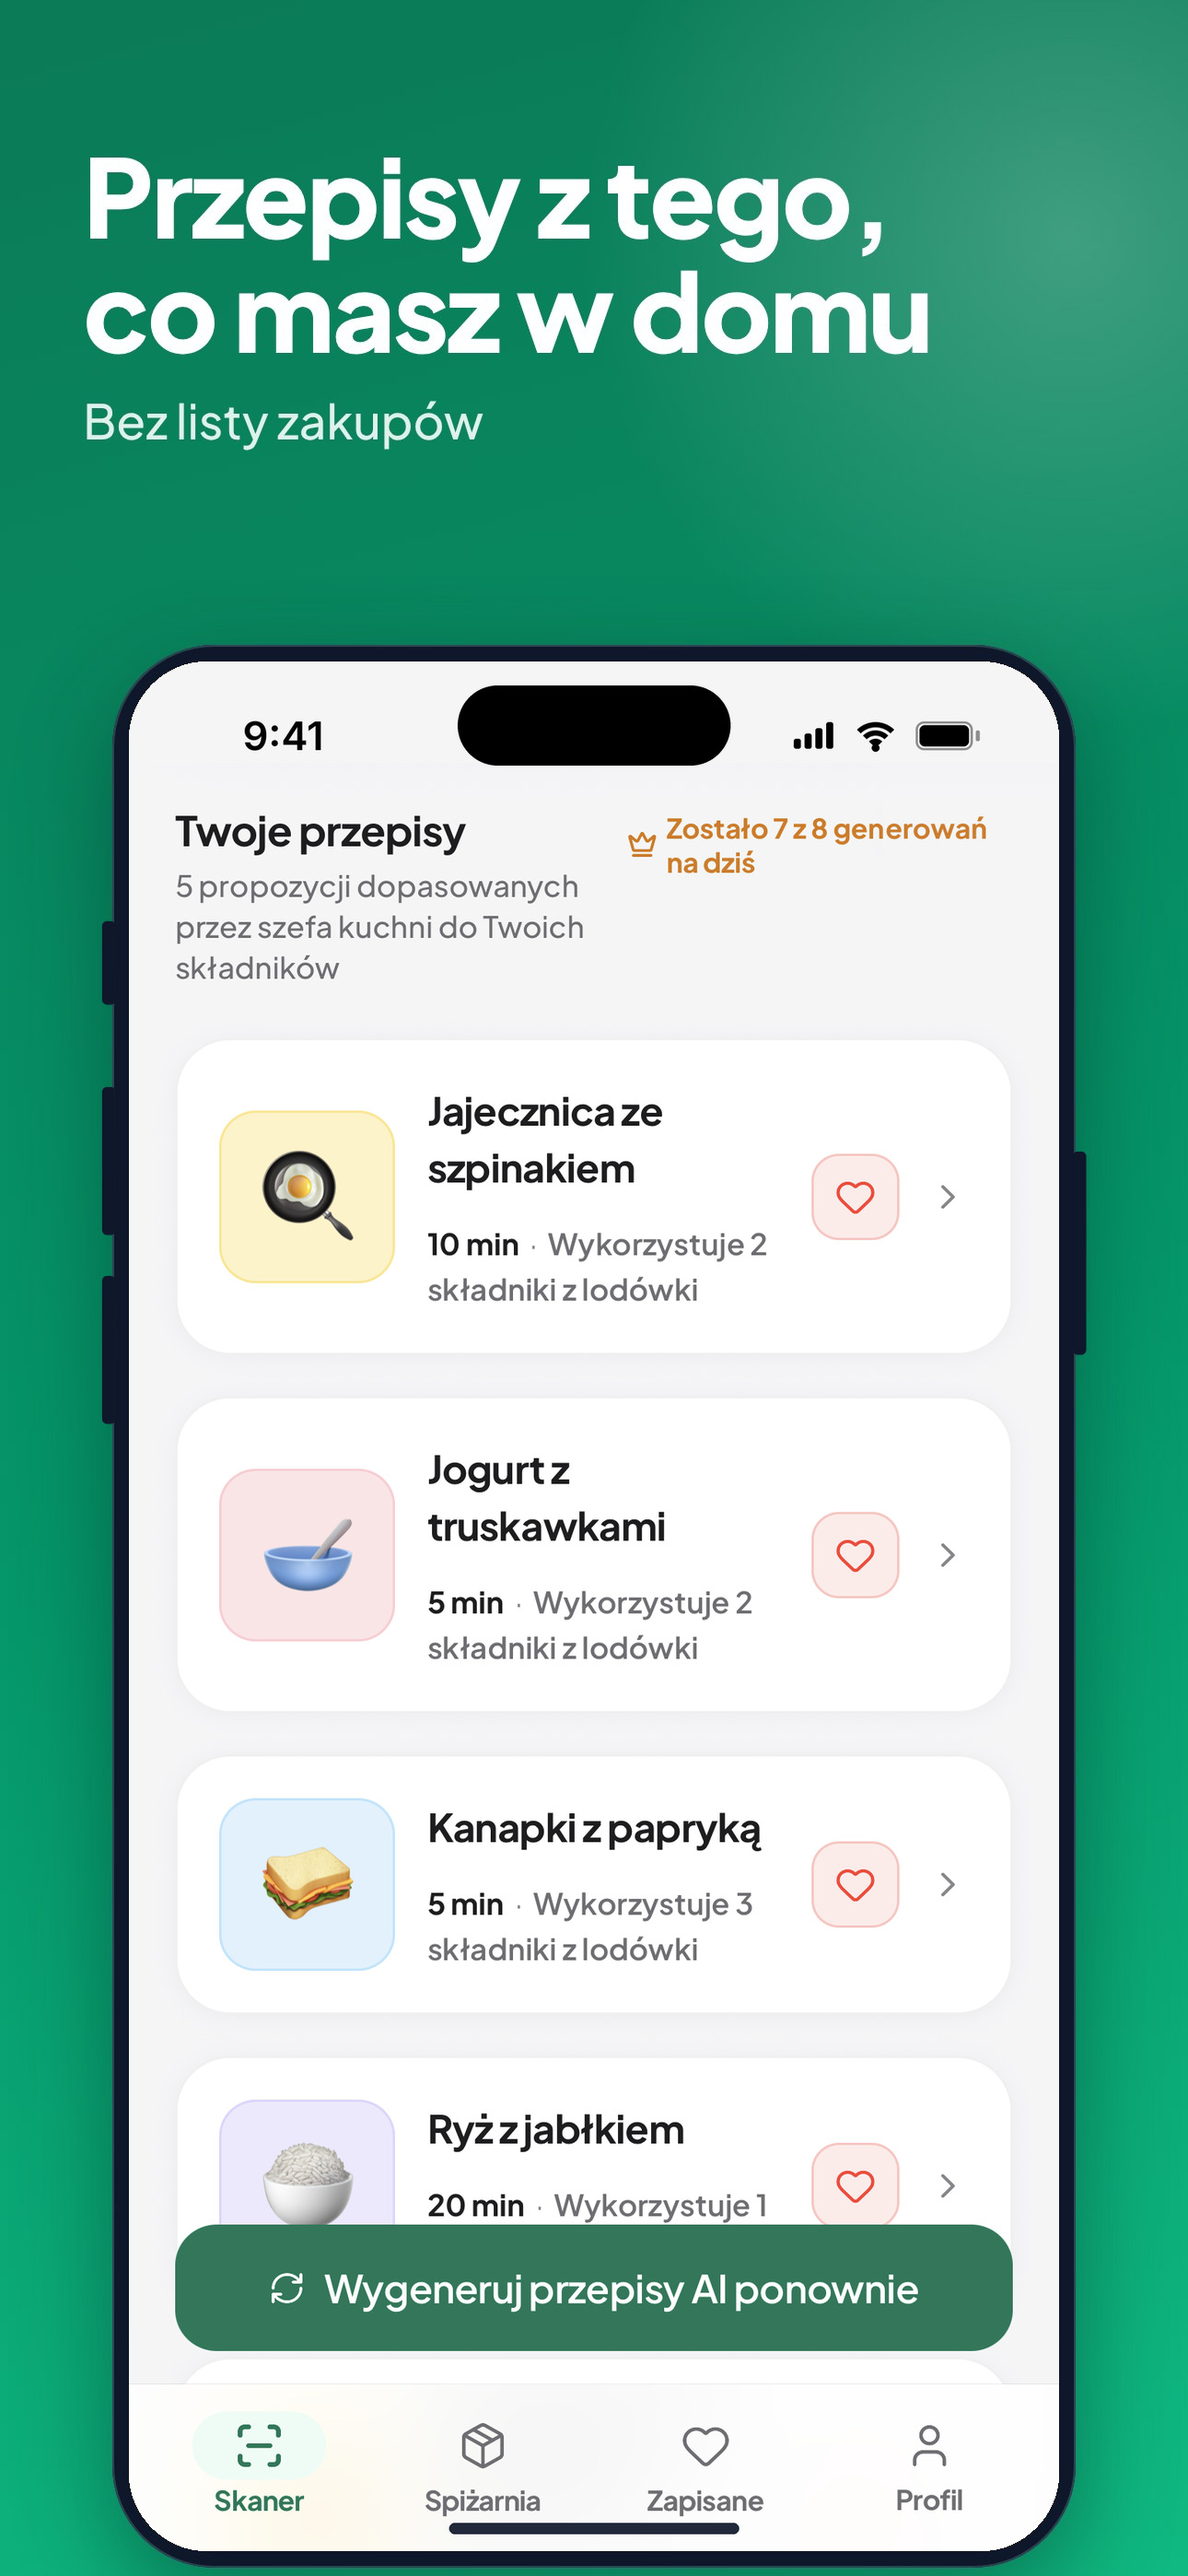
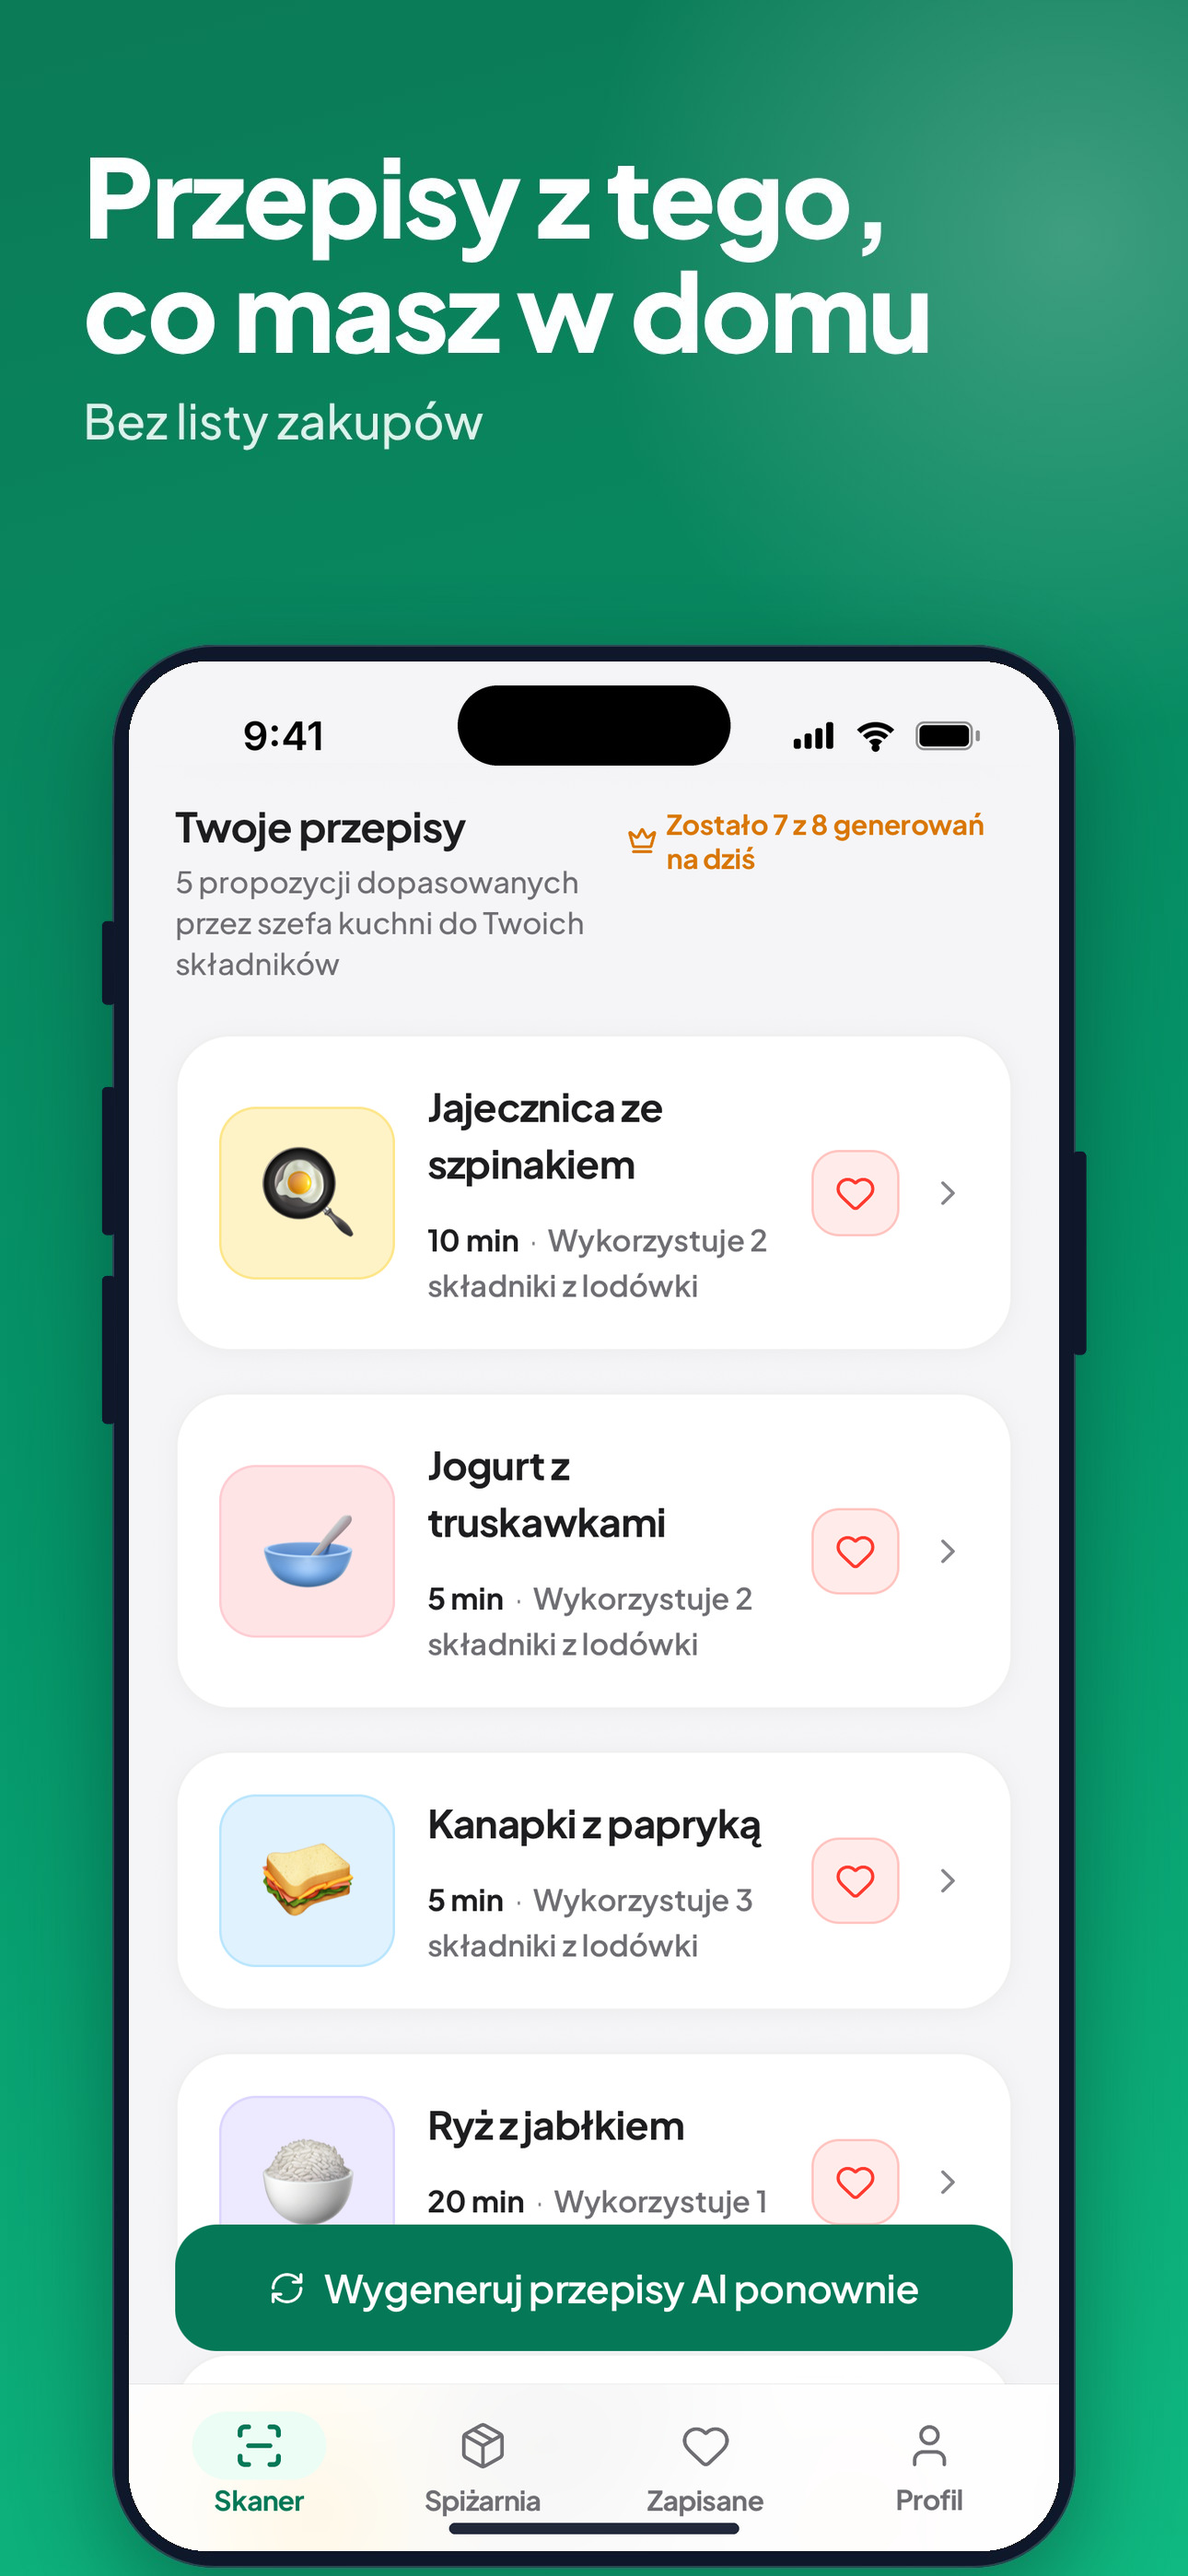
Store slide 02 (PL): untouched counter text (dev button moved to the tab bar and patched from a second shot)
Claude-Session: https://claude.ai/code/session_01RtbBoobjW7cVhPz1v3aXm1

diff --git a/docs/store/screenshots/README.md b/docs/store/screenshots/README.md
@@ -44,4 +44,4 @@ Slides 01-07 in `final/ios-6.9/en/` are made from real iPhone 16 Pro screenshots
 PRO testing switch on for the PRO screens). `tools/clean_iphone.py <shot.png> <out.png> [top-rows]` swaps the live status bar for a clean
 9:41 and fits the screen to the frame's proportions; `tools/compose.py` then puts it in the slide. The Expo Go dev button (blue gear, top right)
 was retouched out by hand where it showed: patches copied from a clean area of the same screen, or mirrored from the other side of a symmetric card.
-The PL slides in `final/ios-6.9/pl/` are made the same way (originals in `source/iphone/pl-*.png`; in 02 the end of the "Zostało 7 z 8 generowań" counter, hidden by the dev button, was redrawn in the app font).
+The PL slides in `final/ios-6.9/pl/` are made the same way (originals in `source/iphone/pl-*.png`; in 02 the dev button, parked on the tab bar, was patched out from a second screenshot of the same screen).
